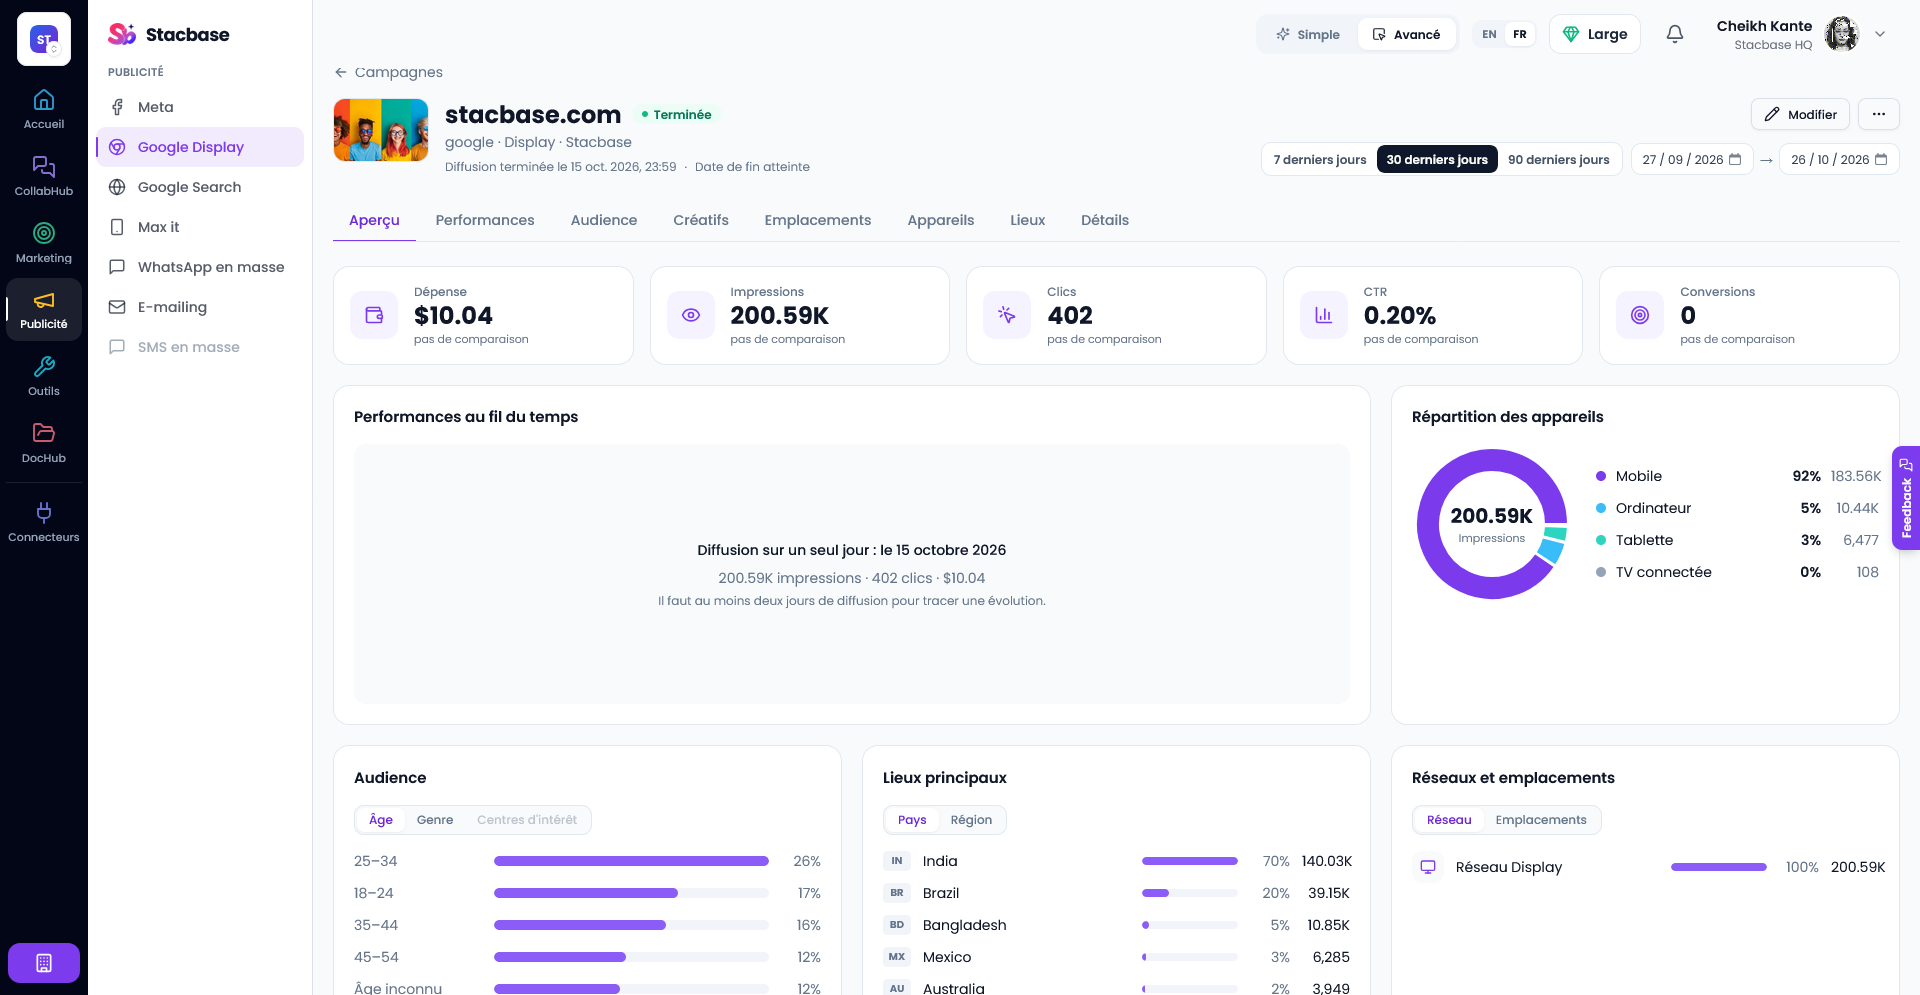
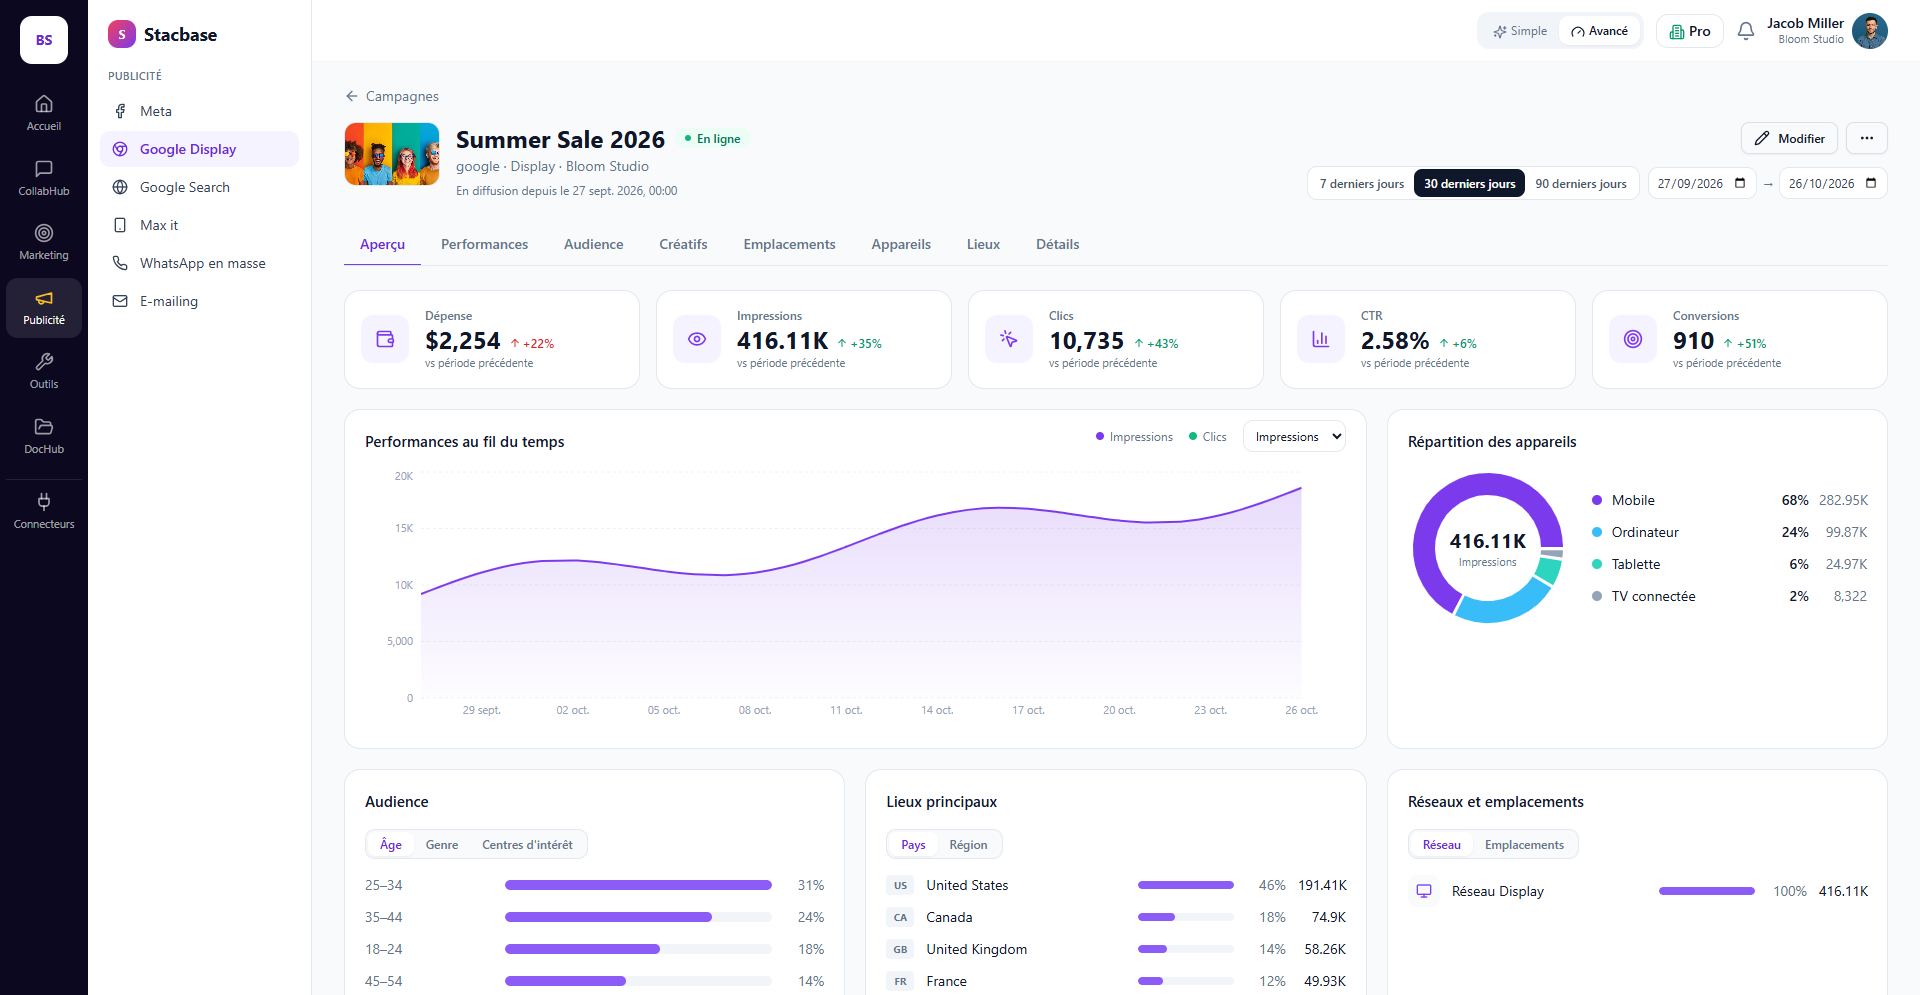
feat(site): capture du vrai rapport de campagne avec des données de démonstration (#14)
Même interface que l'app, mais une campagne fictive (Summer Sale 2026,
Bloom Studio, Jacob Miller) aux résultats parlants : plus de vraies données
ni de nom réel sur la page publique.

diff --git a/components/Landing.tsx b/components/Landing.tsx
@@ -79,7 +79,7 @@ export function Landing() {
             <div className={s.stripes} aria-hidden />
             <div className={`container ${s.heroFrame}`} data-reveal='scale' style={{ '--d': '500ms' } as CSSProperties}>
               <div className={s.tilt}>
-                <AppShot alt={lang === 'fr' ? 'Le rapport d’une campagne Google Display dans Stacbase' : 'A Google Display campaign report in Stacbase'} />
+                <AppShot alt={lang === 'fr' ? 'Le rapport d’une campagne Google Display dans Stacbase (données de démonstration)' : 'A Google Display campaign report in Stacbase (demo data)'} />
               </div>
               <div className={`${s.float} ${s.floatA}`}>
                 <span className={s.floatIcon}>
